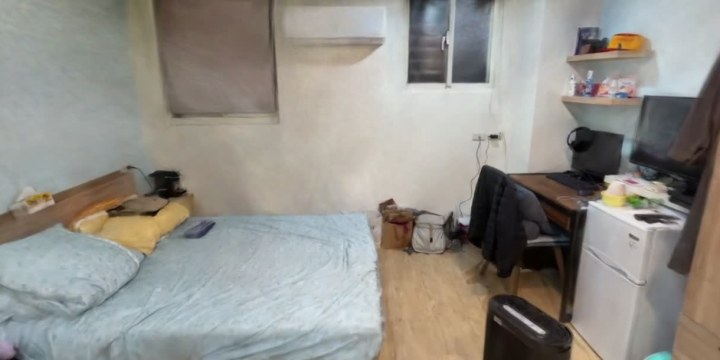
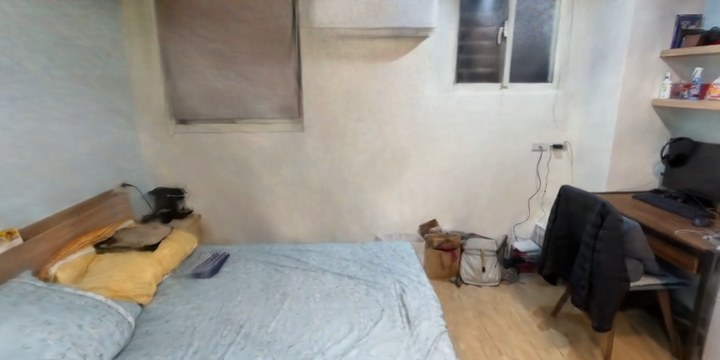
docs: 3D 房間認物品換框到更多家具的畫面，影片移進第 6 步看房間 (#602)

diff --git a/docs/slides/final-1126/Meowho_成果報告_1126.html b/docs/slides/final-1126/Meowho_成果報告_1126.html
@@ -783,10 +783,10 @@ code{font:500 .92em ui-monospace,Menlo,monospace;background:var(--cream-d);borde
 .rd-cmp tr.me td{background:var(--honey-l);font-weight:700;border-top:2px solid var(--honey)}
 
 /* 珮瑜頁 11：六個步驟，每步一張示意圖 */
-.rs{display:grid;grid-template-columns:1fr 560px;gap:32px;align-items:start}
+.rs{display:flex;flex-direction:column;gap:16px}
 .rs-grid{display:grid;grid-template-columns:repeat(3,1fr);gap:18px}
 .rs-card{background:#fff;border:2px solid var(--line);border-radius:22px;padding:14px 18px 18px;display:flex;flex-direction:column;gap:8px}
-.rs-fig{width:100%;height:168px;object-fit:cover;background:var(--slide-bg);border-radius:14px;display:block;border:1.5px solid var(--line)}
+.rs-fig{width:100%;height:178px;object-fit:cover;background:var(--slide-bg);border-radius:14px;display:block;border:1.5px solid var(--line)}
 .rs-h{display:flex;align-items:center;gap:10px;font:400 30px/1.2 var(--font-display);color:var(--cocoa);margin-top:4px}
 .rs-n{width:40px;height:40px;border-radius:50%;background:var(--cocoa);color:var(--honey);display:grid;place-items:center;font:400 24px/1 var(--font-display);flex:none}
 .rs-h .aitag{font:700 16px/1 var(--font-body);color:#fff;background:var(--cocoa);border-radius:999px;padding:5px 11px}
@@ -860,6 +860,8 @@ code{font:500 .92em ui-monospace,Menlo,monospace;background:var(--cream-d);borde
 .rd-im{width:192px;height:108px;object-fit:cover;border-radius:12px;display:block;flex:none;border:2px solid var(--line)}
 .rd-cmp tr.me .rd-im{border-color:var(--honey)}
 .rd-m span{font:700 23px/1.35 var(--font-body);white-space:normal}
+
+.rs-foot .rv-keys{margin-top:0}
 </style>
 </head>
 <body>
@@ -1286,9 +1288,9 @@ code{font:500 .92em ui-monospace,Menlo,monospace;background:var(--cream-d);borde
           <span class="rs-m">Brush（3D Gaussian Splatting）</span>
         </div>
         <div class="rs-card reveal d2">
-          <img class="rs-fig" src="assets/demo/room_step_4.jpg" alt="Grounding DINO 框出、SAM 2 描出床的輪廓">
+          <img class="rs-fig" src="assets/demo/room_step_4.jpg" alt="Grounding DINO 框出、SAM 2 描出床、衣櫃、冰箱等家具">
           <div class="rs-h"><span class="rs-n">4</span>認物品<span class="aitag">AI</span><span class="rs-g">互動</span></div>
-          <p class="rs-w">框出床、描輪廓，再投回 3D</p>
+          <p class="rs-w">框出家具、描輪廓，再投回 3D</p>
           <span class="rs-m">Gemini＋Grounding DINO＋SAM 2</span>
         </div>
         <div class="rs-card reveal d3">
@@ -1298,14 +1300,13 @@ code{font:500 .92em ui-monospace,Menlo,monospace;background:var(--cream-d);borde
           <span class="rs-m">Python＋Open3D</span>
         </div>
         <div class="rs-card reveal d3">
-          <img class="rs-fig" src="assets/demo/room_step_6.jpg" alt="正式站的 3D 房間檢視器">
+          <video class="rs-fig" src="assets/video/room3d.mp4" autoplay loop muted playsinline></video>
           <div class="rs-h"><span class="rs-n">6</span>看房間<span class="rs-g">互動</span></div>
           <p class="rs-w">走進房間，任務用你家家具</p>
           <span class="rs-m">Three.js＋gaussian-splats-3d</span>
         </div>
       </div>
-      <div class="rv-main reveal d2">
-        <div class="shot vshot rs-shot"><div class="bar"><i></i><i></i><i></i><span>我的 3D 房間（正式站）</span></div><video src="assets/video/room3d.mp4" autoplay loop muted playsinline></video></div>
+      <div class="rs-foot reveal d3">
         <div class="rv-keys">
           <span class="rv-tot"><svg class="ic"><use href="#i-clock"/></svg>全程 15～20 分鐘</span>
           <span class="rv-k">質感優先</span><span class="rv-k">補開 GPU 快 15%</span><span class="rv-k">一間約 NT$6</span>

diff --git a/docs/slides/final-1126/_src/body.html b/docs/slides/final-1126/_src/body.html
@@ -419,9 +419,9 @@
           <span class="rs-m">Brush（3D Gaussian Splatting）</span>
         </div>
         <div class="rs-card reveal d2">
-          <img class="rs-fig" src="assets/demo/room_step_4.jpg" alt="Grounding DINO 框出、SAM 2 描出床的輪廓">
+          <img class="rs-fig" src="assets/demo/room_step_4.jpg" alt="Grounding DINO 框出、SAM 2 描出床、衣櫃、冰箱等家具">
           <div class="rs-h"><span class="rs-n">4</span>認物品<span class="aitag">AI</span><span class="rs-g">互動</span></div>
-          <p class="rs-w">框出床、描輪廓，再投回 3D</p>
+          <p class="rs-w">框出家具、描輪廓，再投回 3D</p>
           <span class="rs-m">Gemini＋Grounding DINO＋SAM 2</span>
         </div>
         <div class="rs-card reveal d3">
@@ -431,14 +431,13 @@
           <span class="rs-m">Python＋Open3D</span>
         </div>
         <div class="rs-card reveal d3">
-          <img class="rs-fig" src="assets/demo/room_step_6.jpg" alt="正式站的 3D 房間檢視器">
+          <video class="rs-fig" src="assets/video/room3d.mp4" autoplay loop muted playsinline></video>
           <div class="rs-h"><span class="rs-n">6</span>看房間<span class="rs-g">互動</span></div>
           <p class="rs-w">走進房間，任務用你家家具</p>
           <span class="rs-m">Three.js＋gaussian-splats-3d</span>
         </div>
       </div>
-      <div class="rv-main reveal d2">
-        <div class="shot vshot rs-shot"><div class="bar"><i></i><i></i><i></i><span>我的 3D 房間（正式站）</span></div><video src="assets/video/room3d.mp4" autoplay loop muted playsinline></video></div>
+      <div class="rs-foot reveal d3">
         <div class="rv-keys">
           <span class="rv-tot"><svg class="ic"><use href="#i-clock"/></svg>全程 15～20 分鐘</span>
           <span class="rv-k">質感優先</span><span class="rv-k">補開 GPU 快 15%</span><span class="rv-k">一間約 NT$6</span>

diff --git a/docs/slides/final-1126/_src/extra.css b/docs/slides/final-1126/_src/extra.css
@@ -569,10 +569,10 @@ code{font:500 .92em ui-monospace,Menlo,monospace;background:var(--cream-d);borde
 .rd-cmp tr.me td{background:var(--honey-l);font-weight:700;border-top:2px solid var(--honey)}
 
 /* 珮瑜頁 11：六個步驟，每步一張示意圖 */
-.rs{display:grid;grid-template-columns:1fr 560px;gap:32px;align-items:start}
+.rs{display:flex;flex-direction:column;gap:16px}
 .rs-grid{display:grid;grid-template-columns:repeat(3,1fr);gap:18px}
 .rs-card{background:#fff;border:2px solid var(--line);border-radius:22px;padding:14px 18px 18px;display:flex;flex-direction:column;gap:8px}
-.rs-fig{width:100%;height:168px;object-fit:cover;background:var(--slide-bg);border-radius:14px;display:block;border:1.5px solid var(--line)}
+.rs-fig{width:100%;height:178px;object-fit:cover;background:var(--slide-bg);border-radius:14px;display:block;border:1.5px solid var(--line)}
 .rs-h{display:flex;align-items:center;gap:10px;font:400 30px/1.2 var(--font-display);color:var(--cocoa);margin-top:4px}
 .rs-n{width:40px;height:40px;border-radius:50%;background:var(--cocoa);color:var(--honey);display:grid;place-items:center;font:400 24px/1 var(--font-display);flex:none}
 .rs-h .aitag{font:700 16px/1 var(--font-body);color:#fff;background:var(--cocoa);border-radius:999px;padding:5px 11px}
@@ -646,3 +646,5 @@ code{font:500 .92em ui-monospace,Menlo,monospace;background:var(--cream-d);borde
 .rd-im{width:192px;height:108px;object-fit:cover;border-radius:12px;display:block;flex:none;border:2px solid var(--line)}
 .rd-cmp tr.me .rd-im{border-color:var(--honey)}
 .rd-m span{font:700 23px/1.35 var(--font-body);white-space:normal}
+
+.rs-foot .rv-keys{margin-top:0}
